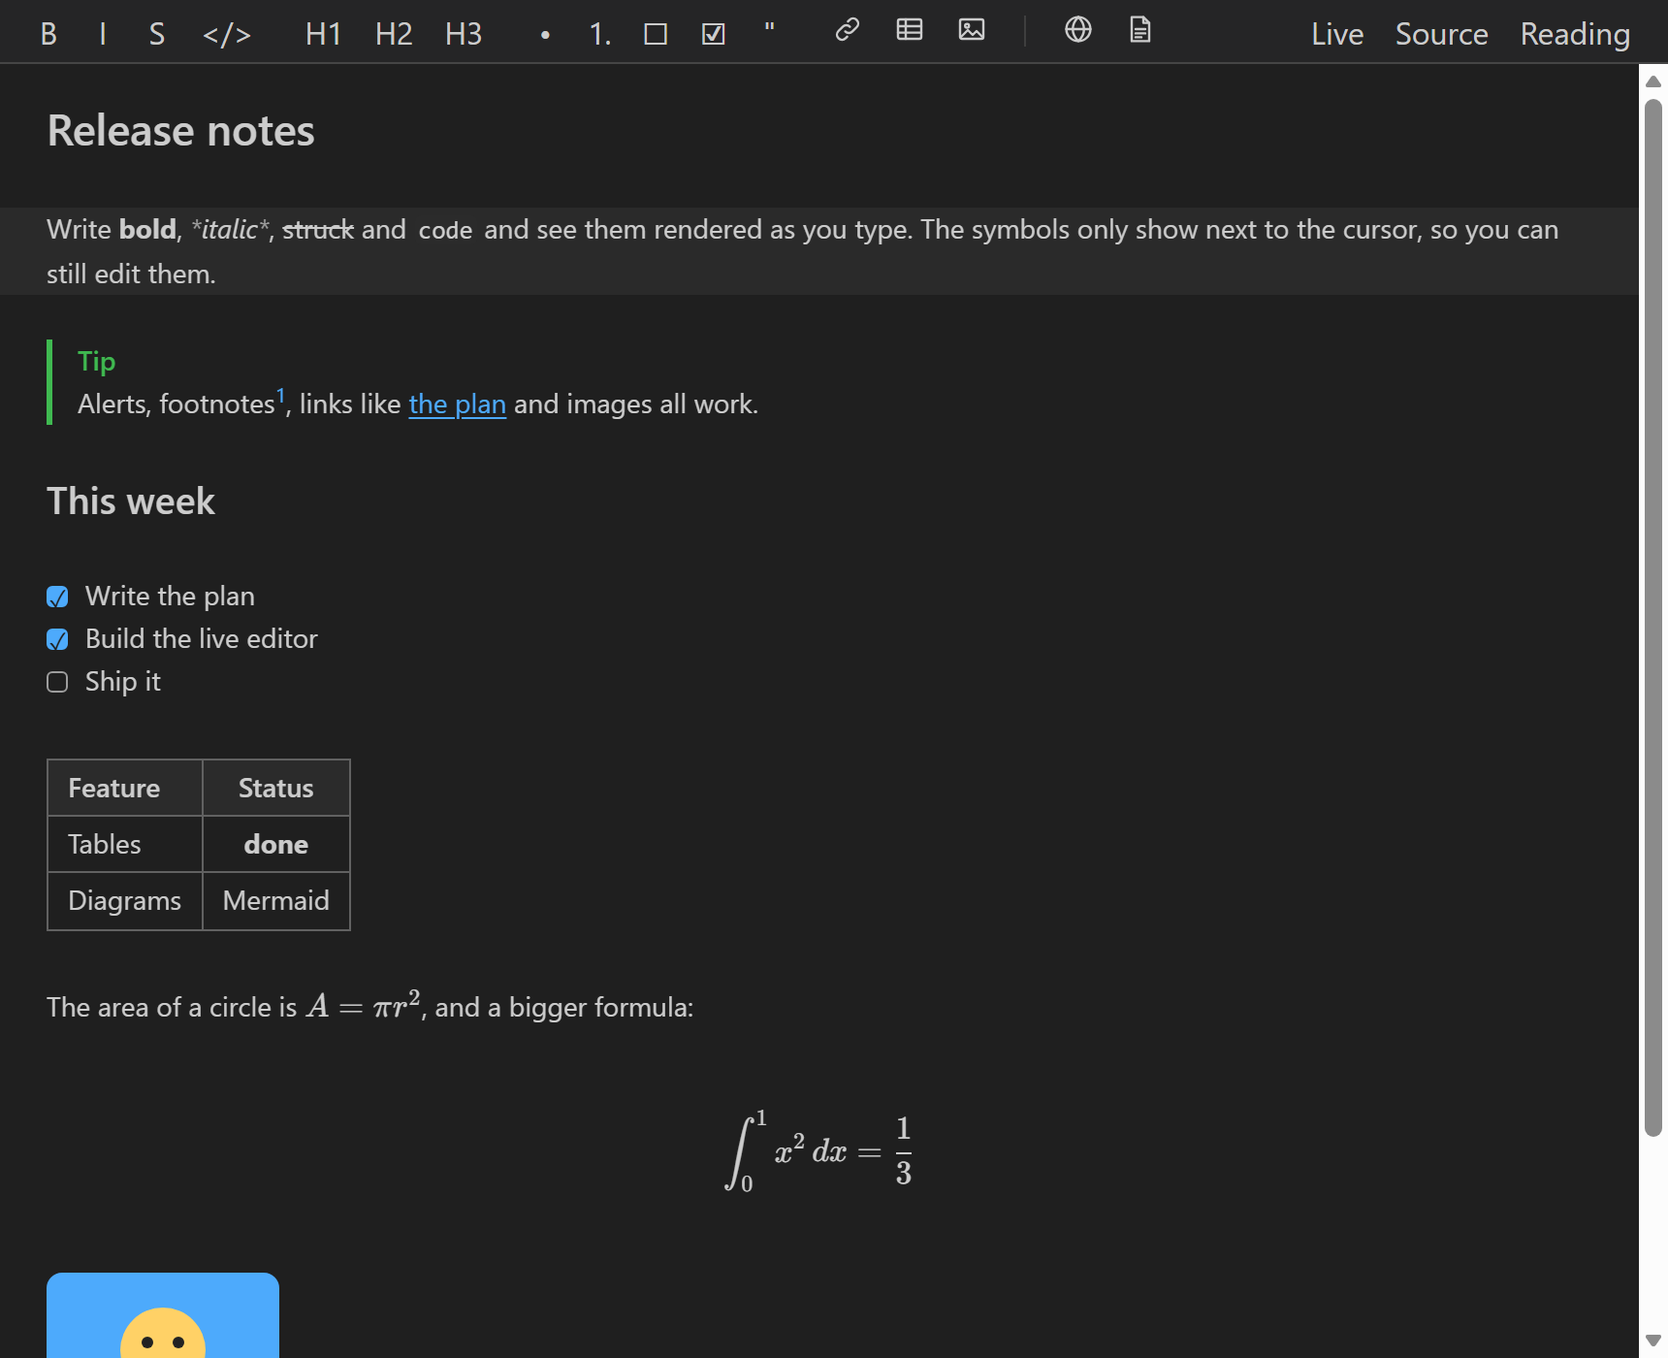
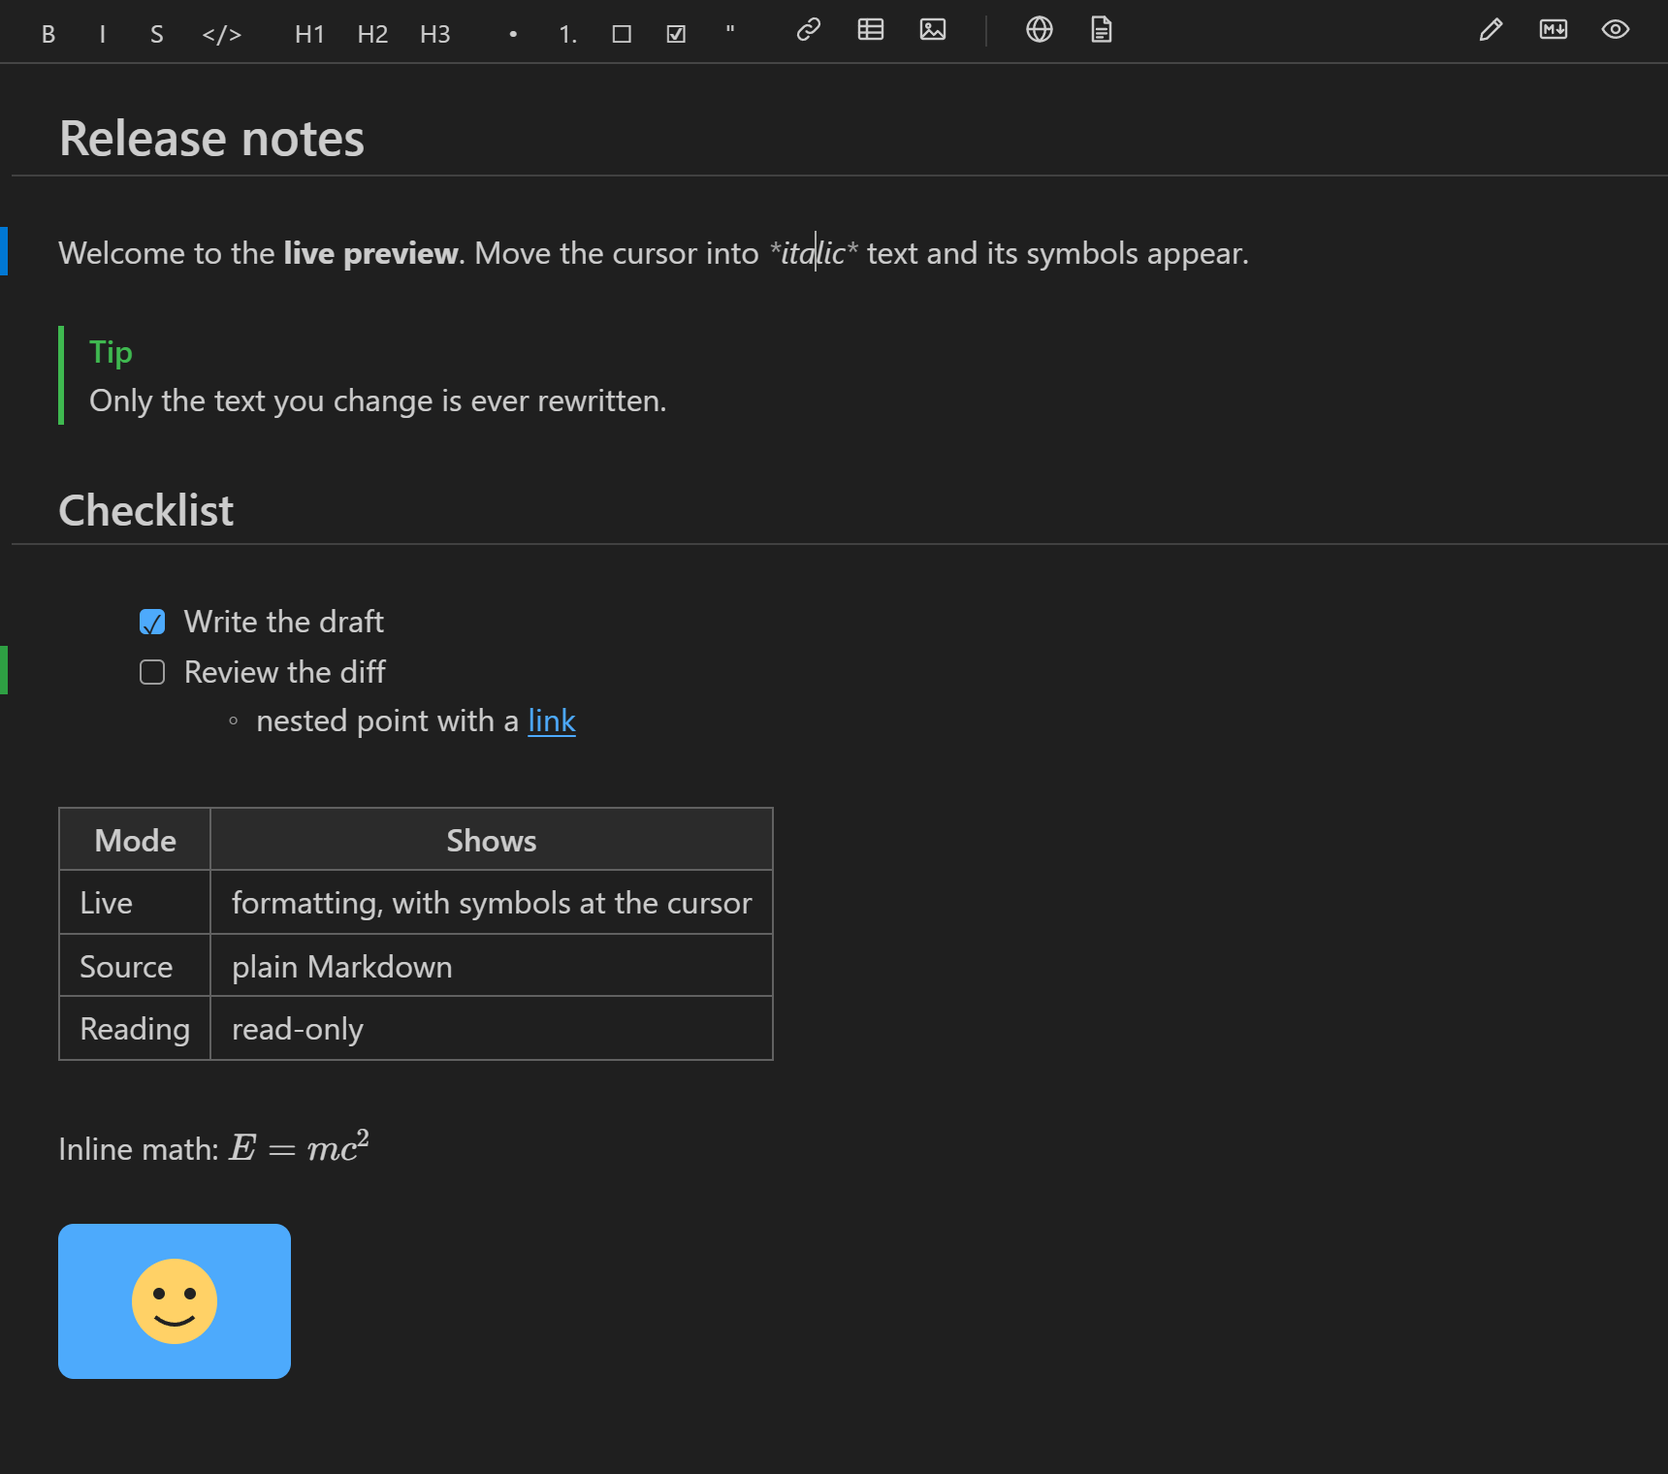
Update the README text and pictures for 0.1.12
New screenshots and GIFs show the icon buttons, the line under headings, list indents and Git change bars. The README describes the change bars and the title-bar button.

diff --git a/README.md b/README.md
@@ -4,7 +4,7 @@ English | [简体中文](README.zh-CN.md) | [繁體中文](README.zh-TW.md)
 
 A live-preview Markdown editor for VS Code. Formatting is shown rendered as you type, and it **never rewrites parts of the file you didn't touch**.
 
-![The editor showing a heading, a tip, a task list, a table, math and an image, with the cursor in a line where the italic symbols are revealed](images/live-editing.png)
+![The editor showing a heading, a tip, a task list, a table, math and an image, with the cursor in a line where the italic symbols are revealed, and change bars at the left of the lines that differ from Git](images/live-editing.png)
 
 ## Change one word, and one word changes
 
@@ -31,9 +31,11 @@ Everything else in the file stays as it was, including your line endings (`\r\n`
 - **GitHub-style Markdown:** tables, task lists, strikethrough, autolinks, alerts (`> [!NOTE]`), footnotes, front matter, math with KaTeX (`$x^2$` and `$$…$$`) and Mermaid diagrams.
 - **Tables you can edit in place:** click a cell and type. Tab moves to the next cell. Only that cell's text changes in the file. A `☐`, `☑` or `☒` anywhere in a cell is drawn as a checkbox, and each click goes to the next of the three (open, done, crossed out, then open again). While the cursor is in a cell (you are editing it, or the table shows its source), the toolbar's `☐` and `☑` buttons type them, and a `[ ]` or `[x]` you type becomes `☐` or `☑` when you leave the cell. They are ordinary characters, so every app shows them.
 - **Task checkboxes:** a click toggles `[ ]` and `[x]`, a one-character edit.
+- **Change bars for files under Git:** as in VS Code's own editor, a green bar marks added lines, a blue bar changed lines and a red mark where lines were removed, compared with the staged version of the file. They follow your typing and use VS Code's built-in Git extension.
+- **Drawn like VS Code's Markdown preview:** lists are indented the same way (with `•`, `◦` and `▪` for nested bullets), and level 1 and 2 headings have a thin line under them.
 - **Formatting toolbar and shortcuts**, list continuation on Enter, and pasted links.
 - **Images:** paste or drop an image file (hold Shift while dropping) and it is saved to an `assets/` folder next to the document. Or use the Image button.
-- **Go to Heading** and working `#anchor` links.
+- **Go to Heading** and working `#anchor` links. Ctrl/Cmd+click a link to open it, also inside a table cell, and a link such as `other.md#usage` opens that file in this editor at the heading.
 - **Export to HTML or PDF** from the toolbar or the Command Palette. Images and math are embedded, and Mermaid diagrams are drawn.
 - Works with VS Code's own save, undo and redo, the unsaved-changes marker and Git, and in remote windows (checked in WSL).
 - Follows your VS Code theme (light, dark and high contrast) and fonts. Raw HTML is shown as source unless you turn on rendering, and then it is sanitized.
@@ -52,7 +54,7 @@ With the cursor on another line, the formatting is drawn and the symbols are hid
 - **Tables:** click a cell and type. `Tab` moves to the next cell. Move the cursor into the table with the arrow keys to see its Markdown source.
 - **Lists:** `Enter` continues a list, and `Enter` on an empty item ends it.
 - **Pictures:** paste or drop an image, or use the Image button.
-- **Change mode:** **Live**, **Source** and **Reading** are in the top right of the editor.
+- **Change mode:** **Live** (a pencil), **Source** (the Markdown mark) and **Reading** (an eye) are icon buttons at the top right of the editor. Hover over one to see its name.
 
 Editing a table: click a cell, type, and press `Tab` for the next cell.
 
@@ -85,7 +87,7 @@ Click a formula or diagram to see and edit its source. A formula or diagram with
 
 ## Using it
 
-Open a `.md` file, right-click its tab, choose **Reopen Editor With…**, then **Markdown Minimal Diff Editor**. It never replaces VS Code's default editor unless you make it the default. You can also run **Markdown Minimal Diff Editor: Open in Markdown Minimal Diff Editor** from the Command Palette.
+Open a `.md` file, right-click its tab, choose **Reopen Editor With…**, then **Markdown Minimal Diff Editor**. It never replaces VS Code's default editor unless you make it the default. You can also use the button in the title bar of a Markdown file, or run **Markdown Minimal Diff Editor: Open in Markdown Minimal Diff Editor** from the Command Palette.
 
 ### Shortcuts
 
@@ -117,6 +119,7 @@ PDF export uses Google Chrome or Microsoft Edge installed on the same machine as
 ## Limits
 
 - VS Code's Outline view and breadcrumbs stay empty in this editor, because VS Code only fills them for text editors. Use **Go to Heading** (`Ctrl/Cmd+Shift+O`) instead, or reopen the file in the Text Editor to see the Outline.
+- Change bars need the file to be on disk in a Git repository, and the built-in Git extension to be enabled. Clicking a bar does not open a diff.
 - Math inside a table cell is shown as `$x$` text, not drawn.
 - Math, diagrams and tables inside a quote (`> `) are shown as source.
 - Mermaid diagrams are not redrawn when you switch VS Code's theme until the diagram is edited or the file reopened.

diff --git a/README.zh-TW.md b/README.zh-TW.md
@@ -4,7 +4,7 @@
 
 一個用於 VS Code 的即時預覽 Markdown 編輯器。輸入時即顯示轉譯後的格式，而且**絕不改寫檔案中你沒有動過的部分**。
 
-![編輯器顯示了標題、提示、工作清單、表格、公式和圖片，游標所在的行顯示出斜體符號](images/live-editing.png)
+![編輯器顯示了標題、提示、工作清單、表格、公式和圖片，游標所在的行顯示出斜體符號，與 Git 有差異的行左側顯示變更條](images/live-editing.png)
 
 ## 改一個字，就只變一個字
 
@@ -31,9 +31,11 @@
 - **GitHub 風格的 Markdown**：表格、工作清單、刪除線、自動連結、提示區塊（`> [!NOTE]`）、註腳、前置中繼資料（front matter）、KaTeX 公式（`$x^2$` 和 `$$…$$`）以及 Mermaid 圖表。
 - **可直接編輯的表格**：按一下儲存格即可輸入。Tab 鍵移到下一個儲存格。檔案中只有該儲存格的文字會改變。儲存格文字中的 `☐`、`☑` 或 `☒` 會繪製為核取方塊，每按一下就切換到三種狀態中的下一種（未完成、已完成、已劃掉，然後回到未完成）。游標在儲存格中（正在編輯它，或表格顯示為原始碼）時，工具列的 `☐` 和 `☑` 按鈕會輸入它們，輸入的 `[ ]` 或 `[x]` 在離開儲存格時會變成 `☐` 或 `☑`。它們是一般字元，所有應用程式都能顯示。
 - **工作核取方塊**：按一下即可在 `[ ]` 和 `[x]` 之間切換，只改一個字元。
+- **Git 變更條**：受 Git 管理的檔案會像 VS Code 內建的編輯器一樣，在左側用綠條標出新增的行，藍條標出修改的行，紅色小標記標出刪除行的位置，比較的是檔案已暫存的版本。變更條會隨輸入更新，並使用 VS Code 內建的 Git 擴充功能。
+- **與 VS Code 的 Markdown 預覽一致的外觀**：清單的縮排相同（巢狀項目符號使用 `•`、`◦`、`▪`），一級和二級標題下方有一條細線。
 - **格式工具列和快速鍵**，按 Enter 自動延續清單，貼上連結。
 - **圖片**：貼上或拖放圖片檔案（拖放時按住 Shift），圖片會儲存到文件旁邊的 `assets/` 資料夾。也可以使用「圖片」按鈕。
-- **移至標題**以及可用的 `#anchor` 連結。
+- **移至標題**以及可用的 `#anchor` 連結。按住 Ctrl/Cmd 按一下連結即可開啟（表格儲存格中的連結也可以），像 `other.md#usage` 這樣的連結會在本編輯器中開啟該檔案並定位到標題。
 - 從工具列或命令選擇區**匯出為 HTML 或 PDF**。圖片和公式會內嵌，Mermaid 圖表會被繪製出來。
 - 支援 VS Code 內建的儲存、復原和重做、未儲存標記和 Git，也支援遠端視窗（已在 WSL 中檢查）。
 - 跟隨你的 VS Code 佈景主題（淺色、深色和高對比）和字型。原始 HTML 預設顯示為原始碼，開啟轉譯後會先進行清理。
@@ -52,7 +54,7 @@
 - **表格**：按一下儲存格並輸入。`Tab` 移到下一個儲存格。用方向鍵把游標移進表格即可看到它的 Markdown 原始碼。
 - **清單**：`Enter` 延續清單，在空白項目上按 `Enter` 結束清單。
 - **圖片**：貼上或拖放圖片，或使用「圖片」按鈕。
-- **切換模式**：**即時**、**原始碼**和**閱讀**位於編輯器右上角。
+- **切換模式**：**即時**（鉛筆）、**原始碼**（Markdown 標誌）和**閱讀**（眼睛）是編輯器右上角的圖示按鈕。把滑鼠停在按鈕上可看到名稱。
 
 編輯表格：按一下儲存格，輸入，然後按 `Tab` 到下一個儲存格。
 
@@ -85,7 +87,7 @@ graph LR
 
 ## 使用方式
 
-開啟一個 `.md` 檔案，以滑鼠右鍵按一下它的索引標籤，選擇**以下列方式重新開啟編輯器…**，然後選擇 **Markdown Minimal Diff Editor**。除非你把它設為預設編輯器，否則它不會取代 VS Code 的預設編輯器。你也可以在命令選擇區中執行 **Markdown Minimal Diff Editor: 在 Markdown Minimal Diff Editor 中開啟**。
+開啟一個 `.md` 檔案，以滑鼠右鍵按一下它的索引標籤，選擇**以下列方式重新開啟編輯器…**，然後選擇 **Markdown Minimal Diff Editor**。除非你把它設為預設編輯器，否則它不會取代 VS Code 的預設編輯器。你也可以使用 Markdown 檔案標題列上的按鈕，或在命令選擇區中執行 **Markdown Minimal Diff Editor: 在 Markdown Minimal Diff Editor 中開啟**。
 
 ### 快速鍵
 
@@ -117,6 +119,7 @@ graph LR
 ## 限制
 
 - VS Code 的大綱檢視和階層連結在此編輯器中是空的，因為 VS Code 只為文字編輯器填入它們。請改用**移至標題**（`Ctrl/Cmd+Shift+O`），或在文字編輯器中重新開啟檔案以查看大綱。
+- 變更條要求檔案位於磁碟上的 Git 儲存庫中，並且已啟用內建的 Git 擴充功能。按一下變更條不會開啟差異檢視。
 - 表格儲存格中的公式顯示為 `$x$` 文字，不會被繪製。
 - 引用區塊（`> `）中的公式、圖表和表格顯示為原始碼。
 - 切換 VS Code 佈景主題後，Mermaid 圖表不會重新繪製，直到你編輯該圖表或重新開啟檔案。

diff --git a/README.zh-CN.md b/README.zh-CN.md
@@ -4,7 +4,7 @@
 
 一个用于 VS Code 的实时预览 Markdown 编辑器。输入时即显示渲染后的格式，并且**绝不改写文件中你没有动过的部分**。
 
-![编辑器显示了标题、提示、任务列表、表格、公式和图片，光标所在的行显示出斜体符号](images/live-editing.png)
+![编辑器显示了标题、提示、任务列表、表格、公式和图片，光标所在的行显示出斜体符号，与 Git 有差异的行左侧显示变更条](images/live-editing.png)
 
 ## 改一个词，就只变一个词
 
@@ -31,9 +31,11 @@
 - **GitHub 风格的 Markdown**：表格、任务列表、删除线、自动链接、提示块（`> [!NOTE]`）、脚注、前置元数据（front matter）、KaTeX 公式（`$x^2$` 和 `$$…$$`）以及 Mermaid 图表。
 - **可直接编辑的表格**：点击单元格即可输入。Tab 键移到下一个单元格。文件中只有该单元格的文本会改变。单元格文本中的 `☐`、`☑` 或 `☒` 会绘制为勾选框，每次点击切换到三种状态中的下一种（未完成、已完成、已划掉，然后回到未完成）。光标在单元格中（正在编辑它，或表格显示为源代码）时，工具栏的 `☐` 和 `☑` 按钮会输入它们，输入的 `[ ]` 或 `[x]` 在离开单元格时会变成 `☐` 或 `☑`。它们是普通字符，所有应用都能显示。
 - **任务复选框**：点击即可在 `[ ]` 和 `[x]` 之间切换，只改一个字符。
+- **Git 变更条**：受 Git 管理的文件会像 VS Code 自带的编辑器一样，在左侧用绿条标出新增的行，蓝条标出修改的行，红色小标记标出删除行的位置，对比的是文件已暂存的版本。变更条会随输入更新，并使用 VS Code 内置的 Git 扩展。
+- **与 VS Code 的 Markdown 预览一致的外观**：列表的缩进相同（嵌套项目符号使用 `•`、`◦`、`▪`），一级和二级标题下方有一条细线。
 - **格式工具栏和快捷键**，按 Enter 自动延续列表，粘贴链接。
 - **图片**：粘贴或拖放图片文件（拖放时按住 Shift），图片会保存到文档旁边的 `assets/` 文件夹。也可以使用“图片”按钮。
-- **转到标题**以及可用的 `#anchor` 链接。
+- **转到标题**以及可用的 `#anchor` 链接。按住 Ctrl/Cmd 点击链接即可打开（表格单元格中的链接也可以），像 `other.md#usage` 这样的链接会在本编辑器中打开该文件并定位到标题。
 - 从工具栏或命令面板**导出为 HTML 或 PDF**。图片和公式会嵌入，Mermaid 图表会被绘制出来。
 - 支持 VS Code 自带的保存、撤销和重做、未保存标记和 Git，也支持远程窗口（已在 WSL 中检查）。
 - 跟随你的 VS Code 主题（浅色、深色和高对比度）和字体。原始 HTML 默认显示为源代码，开启渲染后会先进行清理。
@@ -52,7 +54,7 @@
 - **表格**：点击单元格并输入。`Tab` 移到下一个单元格。用方向键把光标移进表格即可看到它的 Markdown 源代码。
 - **列表**：`Enter` 延续列表，在空项目上按 `Enter` 结束列表。
 - **图片**：粘贴或拖放图片，或使用“图片”按钮。
-- **切换模式**：**实时**、**源代码**和**阅读**位于编辑器右上角。
+- **切换模式**：**实时**（铅笔）、**源代码**（Markdown 标志）和**阅读**（眼睛）是编辑器右上角的图标按钮。把鼠标停在按钮上可看到名称。
 
 编辑表格：点击单元格，输入，然后按 `Tab` 到下一个单元格。
 
@@ -85,7 +87,7 @@ graph LR
 
 ## 使用方法
 
-打开一个 `.md` 文件，右键单击它的标签页，选择**重新打开编辑器的方式…**，然后选择 **Markdown Minimal Diff Editor**。除非你把它设为默认编辑器，否则它不会替换 VS Code 的默认编辑器。你也可以在命令面板中运行 **Markdown Minimal Diff Editor: 在 Markdown Minimal Diff Editor 中打开**。
+打开一个 `.md` 文件，右键单击它的标签页，选择**重新打开编辑器的方式…**，然后选择 **Markdown Minimal Diff Editor**。除非你把它设为默认编辑器，否则它不会替换 VS Code 的默认编辑器。你也可以使用 Markdown 文件标题栏上的按钮，或在命令面板中运行 **Markdown Minimal Diff Editor: 在 Markdown Minimal Diff Editor 中打开**。
 
 ### 快捷键
 
@@ -117,6 +119,7 @@ graph LR
 ## 限制
 
 - VS Code 的大纲视图和面包屑导航在此编辑器中为空，因为 VS Code 只为文本编辑器填充它们。请改用**转到标题**（`Ctrl/Cmd+Shift+O`），或在文本编辑器中重新打开文件以查看大纲。
+- 变更条要求文件位于磁盘上的 Git 仓库中，并且已启用内置的 Git 扩展。点击变更条不会打开差异视图。
 - 表格单元格中的公式显示为 `$x$` 文本，不会被绘制。
 - 引用块（`> `）中的公式、图表和表格显示为源代码。
 - 切换 VS Code 主题后，Mermaid 图表不会重新绘制，直到你编辑该图表或重新打开文件。

diff --git a/PLAN.md b/PLAN.md
@@ -336,7 +336,7 @@ script-src 'nonce-${nonce}';
 - [ ] Go through `TESTING.md` once. Started on 2026-10-28 with the themes: Dark Modern and Light Modern were rendered in a test page (readable), and checking in the real editor found two bugs, both fixed in 0.1.1: inline code was pale text on a pale background in a light theme, and the link shortcut `Ctrl+K` swallowed VS Code's `Ctrl+K` chords and inserted `[](url)`. Still to do: High Contrast themes, emoji and edge-case files, Japanese and Korean input, export, screen reader.
 - [x] README rewritten for release (the minimal-diff promise first, with a diff and a screenshot), `CHANGELOG.md`, a 256×256 icon (`images/icon.png`) and keywords. 0.1.2 added examples of editing, math and diagrams to the README (`images/math-and-diagrams.png`).
 - [x] `LICENSE`: MIT, copyright 2026 zhong wu (from the git user name).
-- [x] GIFs for the README: `images/clean-diff.gif` (the diff for an italic and a ticked task, with a diff panel built from the edits the editor sends), `images/symbols.gif` and `images/table-editing.gif`. They were recorded from the real webview bundle in headless Edge, with scripted clicks and typing, not from a VS Code window (the scripts are not in the repository). Re-record them in VS Code if the look changes.
+- [x] GIFs for the README: `images/clean-diff.gif` (the diff for an italic and a ticked task, with a diff panel built from the edits the editor sends), `images/symbols.gif` and `images/table-editing.gif`. They were recorded from the real webview bundle in headless Edge, with scripted clicks and typing, not from a VS Code window (the scripts are not in the repository). Re-record them in VS Code if the look changes. All the README pictures were taken again for 0.1.12 the same way, with the new toolbar icons, the line under headings, list indents and Git change bars (`live-editing.png` and the first GIF show the bars, using a made-up Git text).
 - [x] **Published to the Visual Studio Marketplace** (publisher `zhongwu`, extension `zhongwu.mk-editor-ext`, display name "Markdown Minimal Diff Editor"; "Markdown Live Editor" was taken). 0.1.0 (2026-10-28) was uploaded by hand on the Marketplace manage page; 0.1.1 and 0.1.2 were published by `.github/workflows/publish.yml`.
 - [x] **Releasing:** raise `version` in `package.json` and `package-lock.json`, add a `CHANGELOG.md` entry, commit and push to `main`, then push a tag `vX.Y.Z` (`git tag vX.Y.Z`, `git push origin vX.Y.Z`). The Publish workflow checks that the tag matches `package.json`, runs lint, typecheck and the unit tests, and runs `npx @vscode/vsce publish --oidc`. There is no access token: the Marketplace publisher page has a Trusted Publishing policy ("Release on tag") for `zhongwu/MkEditorExt` and `publish.yml`. If the repository is renamed, moved or recreated, the policy has to be made again. A new version shows as "Verifying" for a few minutes, and the public listing can lag by up to about an hour. The README on the listing only changes with a new version. An Azure DevOps organization (and so a personal access token) was not possible without an Azure subscription, which is why trusted publishing is used.
 - [x] **Published to Open VSX** (the registry used by VSCodium, Cursor, Theia and others; not needed for VS Code). 0.1.4 went up on 2026-10-30. Steps, checked against the Open VSX wiki on 2026-10-29, for doing it again:
